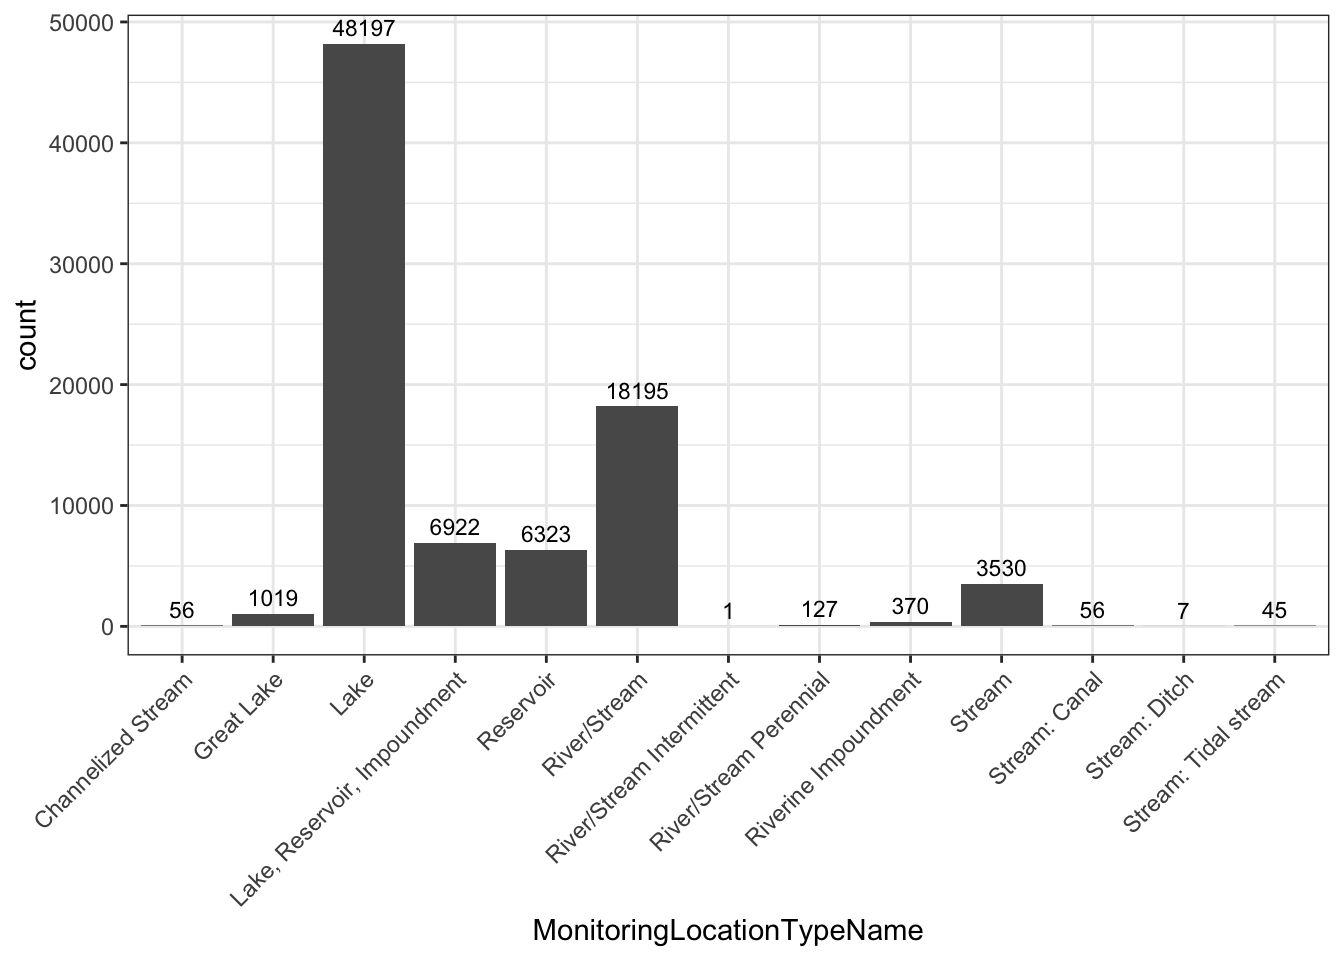
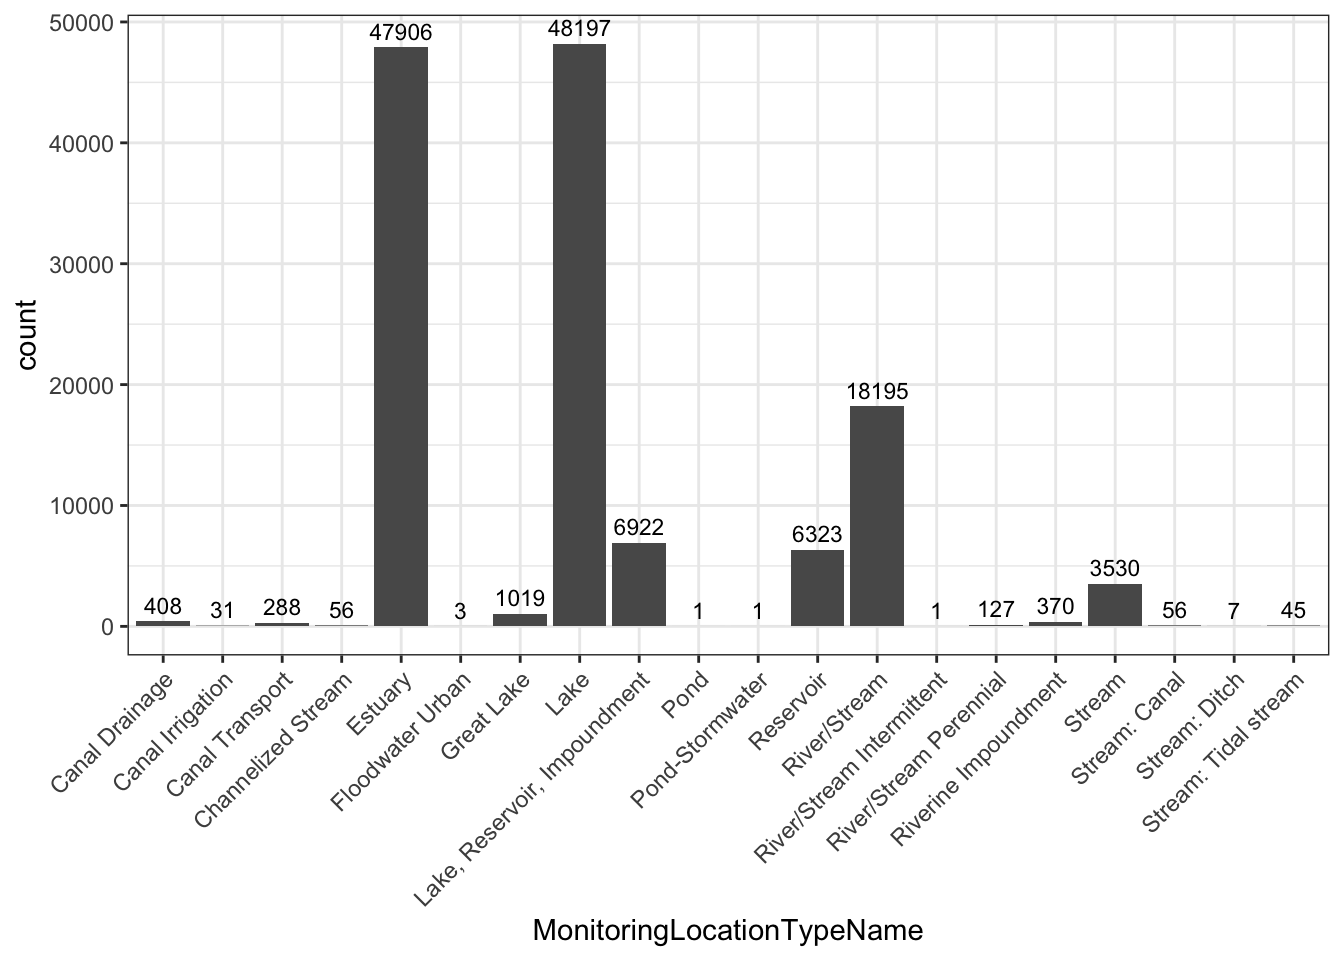
re-run bookdown after updates to siteSR

diff --git a/docs/locs-data-acq.html b/docs/locs-data-acq.html
@@ -23,7 +23,7 @@
 <meta name="author" content="ROSSyndicate" />
 
 
-<meta name="date" content="2025-01-15" />
+<meta name="date" content="2025-01-16" />
 
   <meta name="viewport" content="width=device-width, initial-scale=1" />
   <meta name="apple-mobile-web-app-capable" content="yes" />
@@ -426,7 +426,7 @@ record and enumerates the proportion of time a single 30x30 meter pixel has the
 presence of water. As long as a WQP monitoring location has at least one pixel
 within a 200m radius that has had water at least 80% of the time during that 38
 year period, we include it in the list of sites we acquire Landsat stacks for.
-After this assessment, 84,848
+After this assessment, 133,486
 sites were deemed to be visible by remote sensing.</p>
 <div class="figure"><span style="display:block;" id="fig:siteSR-filtered"></span>
 <img src="AquaMatch_lakeSR_files/figure-html/siteSR-filtered-1.png" alt="Water Quality Portal data location types present in siteSR after filitering for those that are deemed visible by remote sensing. Count of sites provided above bar, divided by `MonitoringLocationTypeName`." width="672" />

diff --git a/docs/index.html b/docs/index.html
@@ -23,7 +23,7 @@
 <meta name="author" content="ROSSyndicate" />
 
 
-<meta name="date" content="2025-01-15" />
+<meta name="date" content="2025-01-16" />
 
   <meta name="viewport" content="width=device-width, initial-scale=1" />
   <meta name="apple-mobile-web-app-capable" content="yes" />
@@ -258,7 +258,7 @@ div.csl-indent {
 <h1 class="title">AquaSat v2: lakeSR and siteSR</h1>
 <h2 class="subtitle"><em>Compiled Satellite Surface Reflectance and Surface Temperature for Waterbodies in the United States and US Territories</em></h2>
 <p class="author"><em>ROSSyndicate</em></p>
-<p class="date"><em>2025-01-15</em></p>
+<p class="date"><em>2025-01-16</em></p>
 </div>
 <div id="introduction" class="section level1 hasAnchor" number="1">
 <h1><span class="header-section-number">1</span> Introduction<a href="index.html#introduction" class="anchor-section" aria-label="Anchor link to header"></a></h1>

diff --git a/docs/404.html b/docs/404.html
@@ -23,7 +23,7 @@
 <meta name="author" content="ROSSyndicate" />
 
 
-<meta name="date" content="2025-01-15" />
+<meta name="date" content="2025-01-16" />
 
   <meta name="viewport" content="width=device-width, initial-scale=1" />
   <meta name="apple-mobile-web-app-capable" content="yes" />

diff --git a/docs/LS-C2-SRST.html b/docs/LS-C2-SRST.html
@@ -23,7 +23,7 @@
 <meta name="author" content="ROSSyndicate" />
 
 
-<meta name="date" content="2025-01-15" />
+<meta name="date" content="2025-01-16" />
 
   <meta name="viewport" content="width=device-width, initial-scale=1" />
   <meta name="apple-mobile-web-app-capable" content="yes" />

diff --git a/docs/LS-SRST-pull.html b/docs/LS-SRST-pull.html
@@ -23,7 +23,7 @@
 <meta name="author" content="ROSSyndicate" />
 
 
-<meta name="date" content="2025-01-15" />
+<meta name="date" content="2025-01-16" />
 
   <meta name="viewport" content="width=device-width, initial-scale=1" />
   <meta name="apple-mobile-web-app-capable" content="yes" />

diff --git a/docs/background.html b/docs/background.html
@@ -23,7 +23,7 @@
 <meta name="author" content="ROSSyndicate" />
 
 
-<meta name="date" content="2025-01-15" />
+<meta name="date" content="2025-01-16" />
 
   <meta name="viewport" content="width=device-width, initial-scale=1" />
   <meta name="apple-mobile-web-app-capable" content="yes" />

diff --git a/docs/handoff.html b/docs/handoff.html
@@ -23,7 +23,7 @@
 <meta name="author" content="ROSSyndicate" />
 
 
-<meta name="date" content="2025-01-15" />
+<meta name="date" content="2025-01-16" />
 
   <meta name="viewport" content="width=device-width, initial-scale=1" />
   <meta name="apple-mobile-web-app-capable" content="yes" />

diff --git a/docs/references.html b/docs/references.html
@@ -23,7 +23,7 @@
 <meta name="author" content="ROSSyndicate" />
 
 
-<meta name="date" content="2025-01-15" />
+<meta name="date" content="2025-01-16" />
 
   <meta name="viewport" content="width=device-width, initial-scale=1" />
   <meta name="apple-mobile-web-app-capable" content="yes" />

diff --git a/docs/software-settings.html b/docs/software-settings.html
@@ -23,7 +23,7 @@
 <meta name="author" content="ROSSyndicate" />
 
 
-<meta name="date" content="2025-01-15" />
+<meta name="date" content="2025-01-16" />
 
   <meta name="viewport" content="width=device-width, initial-scale=1" />
   <meta name="apple-mobile-web-app-capable" content="yes" />
